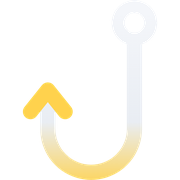
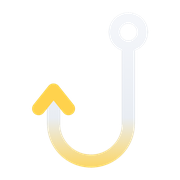
Add files via upload

Changed region(s): [[0.1111, 0.4444, 0.8056, 1.0]]

diff --git a/index.html b/index.html
@@ -7,9 +7,9 @@
 <meta name="description" content="Launch a coin hooked to real-world assets. Pick NVDA, TSLA, SPY, gold or BTC: 1% of every trade fills your coin's reserve, and on every green day for the asset the reserve buys your coin and burns it.">
 <meta property="og:title" content="hook"><meta property="og:description" content="Launch a coin hooked to real-world assets. Wall Street pumps, your coin burns."><meta property="og:image" content="https://hook-launch.vercel.app/og.png">
 <meta name="twitter:card" content="summary_large_image"><meta name="twitter:title" content="hook"><meta name="twitter:description" content="Launch a coin hooked to real-world assets."><meta name="twitter:image" content="https://hook-launch.vercel.app/og.png"><meta name="theme-color" content="#0b0f14">
-<link rel="icon" type="image/png" sizes="32x32" href="/favicon-32.png?v=1"><link rel="icon" type="image/png" sizes="64x64" href="/favicon.png?v=1"><link rel="apple-touch-icon" href="/icon.png?v=1">
+<link rel="icon" type="image/svg+xml" href="/favicon.svg?v=2"><link rel="icon" type="image/png" sizes="32x32" href="/favicon-32.png?v=2"><link rel="icon" type="image/png" sizes="64x64" href="/favicon.png?v=2"><link rel="apple-touch-icon" href="/icon.png?v=2">
 <link rel="preload" href="/assets/fonts/interd-700.woff2" as="font" type="font/woff2" crossorigin><link rel="preload" href="/assets/fonts/inter-var.woff2" as="font" type="font/woff2" crossorigin><link rel="preload" href="/assets/fonts/jbmono.woff2" as="font" type="font/woff2" crossorigin>
-<link rel="stylesheet" href="/assets/h.css?v=1">
+<link rel="stylesheet" href="/assets/h.css?v=2">
 </head>
 <body class="home">
 <div class="bgx" aria-hidden="true"></div>
@@ -31,12 +31,13 @@
   <a href="#/launch" data-v="launch"><svg viewBox="0 0 24 24"><path d="M12 3v18M3 12h18"/></svg><span>Launch</span></a>
   <a href="#/assets" data-v="assets"><svg viewBox="0 0 24 24"><path d="M4 19V9M10 19V5M16 19v-7M22 19H2"/></svg><span>Assets</span></a>
   <a href="#/coins" data-v="coins"><svg viewBox="0 0 24 24"><circle cx="12" cy="12" r="8"/><path d="M12 8v8M9.5 10.5h4a1.5 1.5 0 0 1 0 3h-3"/></svg><span>Coins</span></a>
+  <a href="#/top" data-v="top"><svg viewBox="0 0 24 24"><path d="M8 21h8M12 17v4M7 4h10v5a5 5 0 0 1-10 0zM7 6H4v2a3 3 0 0 0 3 3M17 6h3v2a3 3 0 0 1-3 3"/></svg><span>Top</span></a>
   <a href="#/burns" data-v="burns"><svg viewBox="0 0 24 24"><path d="M12 3c1 4 6 6 6 11a6 6 0 0 1-12 0c0-3 2-4 2-7 2 1 3 3 3 5 1-3 1-6 1-9z"/></svg><span>Burns</span></a>
   <a href="#/trade" data-v="trade"><svg viewBox="0 0 24 24"><path d="M7 7h12l-3-3M17 17H5l3 3"/></svg><span>Trade</span></a>
   <a href="#/docs" data-v="docs"><svg viewBox="0 0 24 24"><path d="M6 3h9l4 4v14H6zM14 3v5h5M9 13h7M9 17h7"/></svg><span>Docs</span></a>
 </nav>
 <div class="modal" id="modal"><div class="mcard" id="mCard"></div></div>
 <div class="toast" id="toast"></div>
-<script src="/assets/h.js?v=1"></script>
+<script src="/assets/h.js?v=2"></script>
 </body>
 </html>
